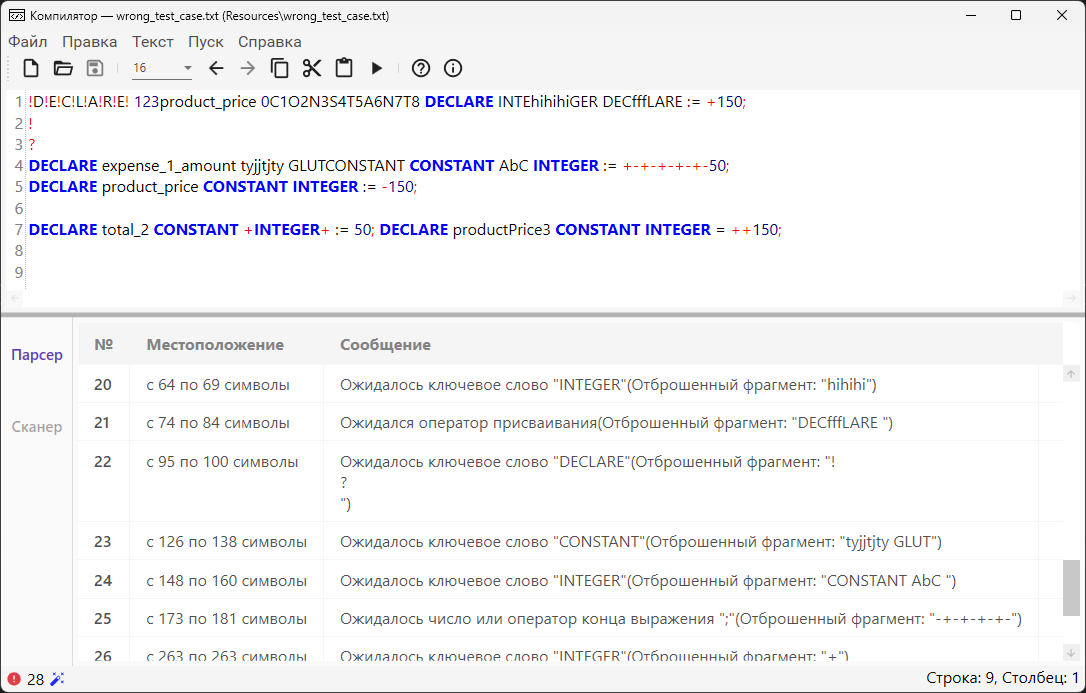
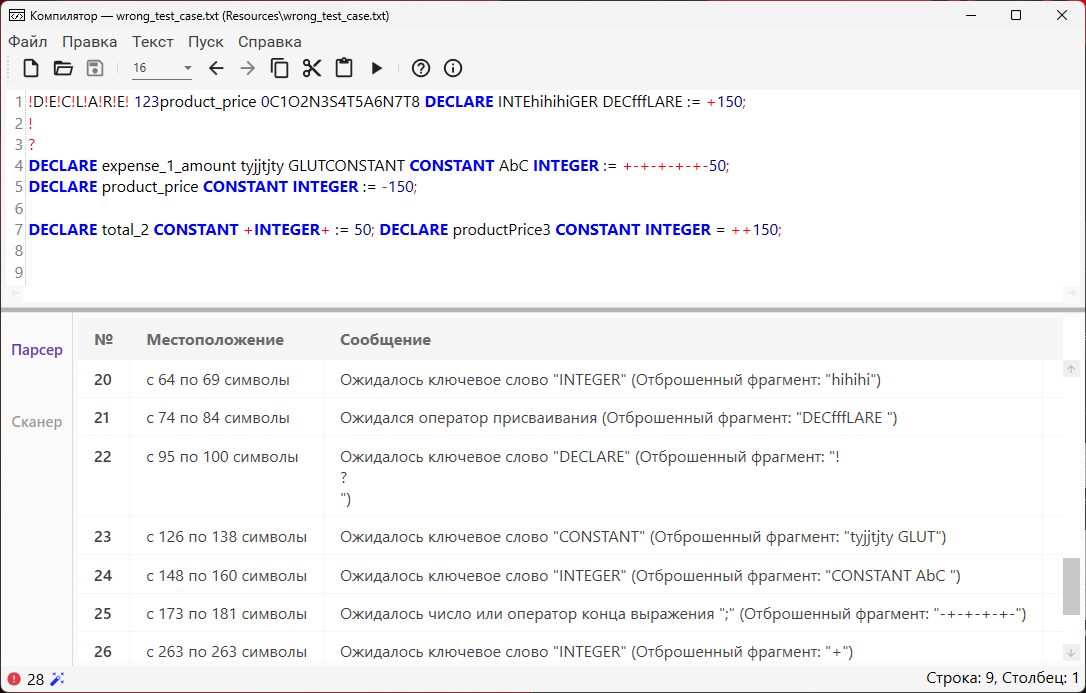
fixed error that caused crash while parsing sign in some cases

diff --git a/Compiler/Resources/About.html b/Compiler/Resources/About.html
@@ -44,7 +44,7 @@
         <h1>О программе</h1>
         <img src="logo.png" alt="Логотип">
         <p>Название программы: Компилятор</p>
-        <p>Версия программы: 4.2.0</p>
+        <p>Версия программы: 4.2.2</p>
         <p>Автор: Сагайдак А.Е., АВТ-113</p>
         <p>Описание: текстовый редактор с функциями языкового процессора</p>
         <p>2024 г.</p>

diff --git a/Compiler/Models/Parser/States/NumberState.cs b/Compiler/Models/Parser/States/NumberState.cs
@@ -3,6 +3,7 @@ using System.Collections.Generic;
 using System.Linq;
 using System.Text;
 using System.Threading.Tasks;
+using static System.Runtime.InteropServices.JavaScript.JSType;
 
 namespace Compiler;
 
@@ -22,6 +23,13 @@ public class NumberState : IState
     public bool Handle()
     {
         stringHelper.SkipSpaces();
+
+        if (!stringHelper.CanGetCurrent)
+        {
+            errors.Add(new ParserError("Обнаружено незаконченное выражение", stringHelper.Index, stringHelper.Index, ErrorType.UnfinishedExpression));
+            return false;
+        }
+
         while (stringHelper.Current != ';')
         {
             ParserError error = new ParserError("Ожидалось число или оператор конца выражения \";\"", stringHelper.Index + 1, stringHelper.Index + 1);

diff --git a/Compiler/Models/Parser/States/DeclareState.cs b/Compiler/Models/Parser/States/DeclareState.cs
@@ -36,7 +36,7 @@ public class DeclareState : IState
                 {
                     if (error.Value != string.Empty)
                         errors.Add(error);
-                    errors.Add(new ParserError("Обнаружено незаконченное выражение lol", stringHelper.Index, stringHelper.Index, ErrorType.UnfinishedExpression));
+                    errors.Add(new ParserError("Обнаружено незаконченное выражение", stringHelper.Index, stringHelper.Index, ErrorType.UnfinishedExpression));
                     return false;
                 }
                 char currentSymbol = stringHelper.Current;

diff --git a/Compiler/Models/Parser/ParserError.cs b/Compiler/Models/Parser/ParserError.cs
@@ -24,7 +24,7 @@ public class ParserError
     public bool IsModified {  get; set; }
     public string Message
     {
-        get => $"{message}" + ((ErrorType == ErrorType.Default) ? $"(Отброшенный фрагмент: \"{Value}\")" : "");
+        get => $"{message}" + ((ErrorType == ErrorType.Default) ? $" (Отброшенный фрагмент: \"{Value}\")" : "");
         set => message = value;
     }
 

diff --git a/Compiler/Models/Parser/StringHelper.cs b/Compiler/Models/Parser/StringHelper.cs
@@ -46,6 +46,11 @@ public class StringHelper
         get => str.Length - 1 > Index;
     }
 
+    public bool CanGetCurrent
+    {
+        get => str.Length - 1 >= Index;
+    }
+
     public bool CanGetPrevious
     {
         get => Index - 1 >= 0;
